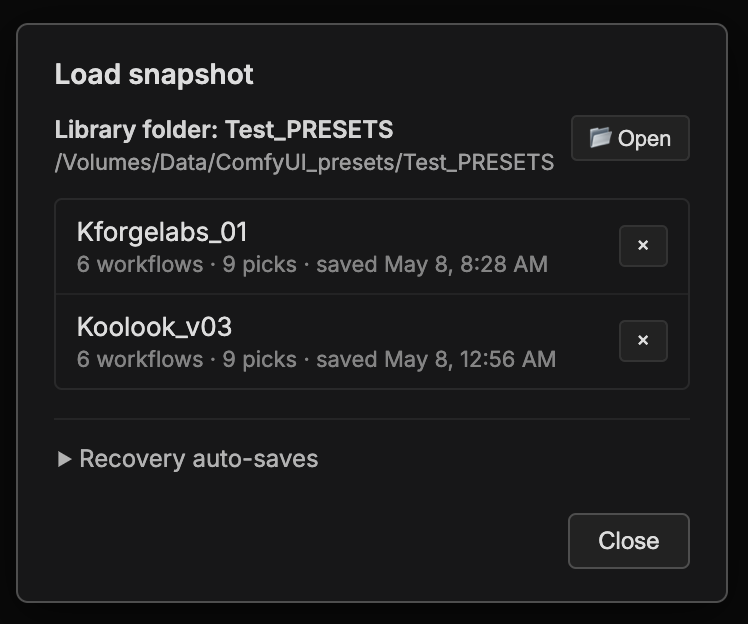
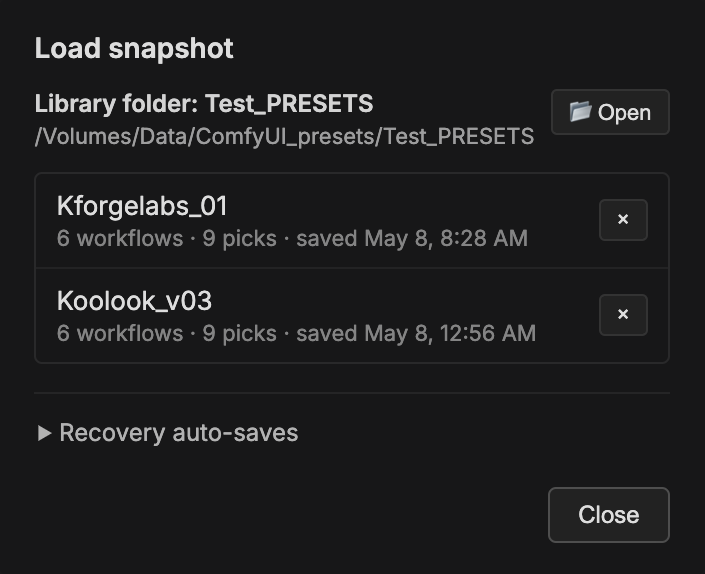
docs(guide): refine overview, mental-model diagram, cards, and recipes
- Sidebar overview: replace screenshot with post-#108 redesign, re-tune
  marker percentages and grid layout, bring markers flush to image edge,
  rewrite Nodes/Workflows action-bar callouts.
- Snapshot mental-model SVG: drop the U-shaped return arrow, restyle
  boxes with ForgeFlow accent strips, show actual on-disk file paths
  (Client_Shot010.json + Client_Shot010_autosave/periodic.json), rename
  Project library to Custom Folder, replace dramatic caption with a
  single-line equation-style summary of manual vs auto-save behaviour.
- Function cards: convert chip spans to bullet lists, replace "Safety /
  setup" with "Smart organization" (folders/drag-drop/move), tighten
  Search description, "Group" -> "Smart view" on Nodes chip.
- Recipes: hide focus-dot overlays, restore wrapper panel with darker
  #111111 fill, strip all styling from images, scale screenshots to 70%,
  right-align callouts to screenshot edge, split callout text into
  separate paragraphs, pin figcaption to bottom.
- Crop save-snapshot.png and load-snapshot.png to remove backdrop
  padding.

diff --git a/web/guide/guide.css b/web/guide/guide.css
@@ -133,8 +133,12 @@ figcaption {
 
 .overview-map {
   display: grid;
-  grid-template-columns: minmax(240px, 0.78fr) minmax(220px, 0.72fr);
-  gap: 48px;
+  /* Slightly wider screenshot column + tighter gap so the sidebar shot's
+     natural portrait height grows to roughly match the callouts column
+     height (image aspect 728:1206 → ~1.656x width). Markers scale with the
+     image since they use percentage positioning. */
+  grid-template-columns: minmax(240px, 0.84fr) minmax(220px, 0.66fr);
+  gap: 24px;
   align-items: center;
   padding: 22px 28px 22px 22px;
   border: 1px solid var(--line);
@@ -156,7 +160,7 @@ figcaption {
 
 .overview-box {
   position: absolute;
-  right: -18px;
+  right: -4px;
   width: 4px;
   border: 0;
   border-radius: 999px;
@@ -169,39 +173,44 @@ figcaption {
   content: none;
 }
 
+/* Marker percentages tuned to the redesigned 728×1206 sidebar-overview.png.
+   Section dividers measured at y = 78 / 154 / 264 / 344 / 420 / 1206
+   (= 6.47% / 12.77% / 21.89% / 28.52% / 34.83% / 100%). Each bar is inset
+   ~0.5% from its dividers so the marker sits cleanly inside the row band
+   instead of straddling the divider line. */
 .overview-snapshot {
-  top: 1.8%;
-  height: 6.8%;
+  top: 0.7%;
+  height: 5.4%;
   color: #4a8058;
 }
 
 .overview-tools {
-  top: 9.7%;
-  height: 6.4%;
+  top: 7.0%;
+  height: 5.4%;
   color: #4268ba;
 }
 
 .overview-search {
-  top: 17.8%;
-  height: 5.6%;
+  top: 13.4%;
+  height: 8.0%;
   color: #d59b3d;
 }
 
 .overview-nodes {
-  top: 26.2%;
-  height: 8.2%;
+  top: 22.4%;
+  height: 5.6%;
   color: #b64747;
 }
 
 .overview-workflows {
-  top: 34.9%;
-  height: 8%;
+  top: 29.1%;
+  height: 5.4%;
   color: #452e83;
 }
 
 .overview-saved {
-  top: 43.5%;
-  height: 51.8%;
+  top: 35.4%;
+  height: 63.6%;
   color: #4a8058;
 }
 
@@ -364,112 +373,108 @@ figcaption {
 }
 
 .function-list {
-  display: flex;
-  flex-wrap: wrap;
-  gap: 7px;
-  margin-top: 14px;
+  margin: 14px 0 0;
+  padding-left: 18px;
+  list-style: disc;
 }
 
-.function-list span {
-  display: inline-flex;
-  align-items: center;
-  min-height: 28px;
-  padding: 4px 8px;
-  border: 1px solid #3d3d3d;
-  border-radius: 4px;
-  background: #1a1a1f;
+.function-list li {
   color: var(--text);
   font-size: 12px;
   font-weight: 700;
-  line-height: 1.2;
+  line-height: 1.6;
 }
 
 .recipes {
   display: grid;
   grid-template-columns: repeat(2, minmax(0, 1fr));
-  gap: 18px;
+  gap: 40px 32px;
   padding: 34px 0 64px;
 }
 
+/* Each recipe is wrapped in its own panel so the row of recipes reads as a
+   set of self-contained "case studies" — same outer container shape, same
+   inner layout (screenshot above, callout below, caption at bottom).
+   Wrapper is a flex column so the figcaption uses `margin-top: auto` and
+   sits flush at the bottom of every panel, aligned across the row even when
+   the callouts above vary in height. Wrapper bg is intentionally darker
+   than --panel so the screenshots inside read as the lighter focal subject. */
 .recipe-real {
-  padding: 14px;
+  display: flex;
+  flex-direction: column;
+  padding: 22px 22px 22px;
   border: 1px solid var(--line);
   border-radius: 8px;
-  background: var(--panel);
+  /* Darker than the screenshot's own edge color (#171718) so the screenshot
+     reads as the lighter focal subject inside a darker frame. */
+  background: #111111;
 }
 
-.recipe-real img {
-  border-color: #454545;
-  background: #101010;
+.recipe-real figcaption {
+  margin-top: auto;
+  padding-top: 22px;
+  text-align: center;
 }
 
 .recipe-shot {
   position: relative;
+  max-width: 70%;
+  margin: 0 auto;
 }
 
+.recipes .recipe-shot img {
+  display: block;
+  width: 100%;
+  height: auto;
+  border: 0;
+  border-radius: 0;
+  background: transparent;
+  box-shadow: none;
+  outline: none;
+}
+
+/* Focus-dot overlays were visually noisy and frequently misaligned over the
+   underlying screenshots; hidden until they can be redrawn against the new
+   sidebar imagery. Aria-hidden already, so nothing changes for AT users. */
 .focus-dot {
-  position: absolute;
-  width: 72px;
-  height: 72px;
-  border-radius: 999px;
-  background: rgb(66 104 186 / 30%);
-  box-shadow: 0 0 0 2px rgb(66 104 186 / 88%);
-  pointer-events: none;
-}
-
-.focus-save {
-  right: 3%;
-  bottom: 7%;
-}
-
-.focus-load {
-  left: 7%;
-  top: 39%;
-}
-
-.focus-module {
-  right: 0.5%;
-  bottom: 0.5%;
-  background: rgb(201 148 75 / 30%);
-  box-shadow: 0 0 0 2px rgb(201 148 75 / 88%);
-}
-
-.focus-node-search {
-  left: 12%;
-  top: 19%;
-  background: rgb(74 128 88 / 30%);
-  box-shadow: 0 0 0 2px rgb(74 128 88 / 88%);
-}
-
-.focus-workflow-search {
-  left: 10%;
-  top: 16%;
-  background: rgb(69 46 131 / 30%);
-  box-shadow: 0 0 0 2px rgb(69 46 131 / 88%);
+  display: none;
 }
 
 .recipe-callout {
   width: fit-content;
-  max-width: min(520px, calc(100% - 44px));
-  margin: 18px auto 0;
-  padding: 14px 18px 14px 22px;
-  border-left: 5px solid var(--blue);
-  border-radius: 8px;
+  /* About two-thirds the width of the recipe screenshot, so the callout
+     reads as a sub-element rather than a full-width banner. Right-aligned
+     to the SCREENSHOT'S right edge: the screenshot is `max-width: 70%`
+     centered, so its right edge sits at the 85% mark of the wrapper, which
+     is 15% from the wrapper's right side. `margin-right: 15%` reproduces
+     that offset, `margin-left: auto` pushes the callout right against it. */
+  max-width: min(240px, calc(100% - 24px));
+  margin: 22px 15% 0 auto;
+  padding: 14px 18px 14px 20px;
+  border-left: 4px solid var(--blue);
+  border-radius: 6px;
   background: #111111;
-  box-shadow: 0 14px 30px rgb(0 0 0 / 26%);
+  box-shadow: 0 10px 22px rgb(0 0 0 / 22%);
 }
 
 .recipe-callout p {
   margin: 0;
   color: var(--muted);
-  font-size: 17px;
+  font-size: 14px;
   line-height: 1.55;
+}
+
+/* Paragraph chapters inside a callout — when a recipe explains two distinct
+   actions (e.g. Save vs. Save as new), each gets its own paragraph and they
+   are separated by a small gap so they read as visually distinct topics. */
+.recipe-callout p + p {
+  margin-top: 8px;
 }
 
 .recipe-callout strong {
   color: var(--text);
-  font-size: 18px;
-  font-weight: 800;
+  font-size: 14px;
+  font-weight: 700;
 }
 
 .recipe-callout.amber {

diff --git a/web/guide/index.html b/web/guide/index.html
@@ -50,11 +50,11 @@ SPDX-License-Identifier: GPL-3.0-only
             </article>
             <article class="overview-callout nodes">
               <h3>Nodes action bar</h3>
-              <p>Switch tree or list view, then add a favorite node.</p>
+              <p>Arrange nodes by Git repo name or theme, and add favorite nodes to the side panel.</p>
             </article>
             <article class="overview-callout workflows">
               <h3>Workflows action bar</h3>
-              <p>Save the canvas or selected nodes, then browse saved workflows.</p>
+              <p>Save the entire canvas or selected nodes.</p>
             </article>
             <article class="overview-callout saved">
               <h3>Saved lists</h3>
@@ -71,7 +71,7 @@ SPDX-License-Identifier: GPL-3.0-only
         <p class="eyebrow">Most important idea</p>
         <h2>Snapshot = your project kit</h2>
       </div>
-      <p>A Snapshot saves Kforge Labs state: favorite nodes, saved workflows, modules, tags, archive, and the current sidebar organization. Use one named snapshot per project, shot, client, or experiment.</p>
+      <p>A snapshot saves your favorite nodes, workflows, modules, tags, and the current sidebar organization. Use one named snapshot per project, shot, client, or experiment.</p>
       <figure class="visual full">
         <img src="./img/snapshot-flow.svg" alt="Snapshot flow from sidebar state to saved file to project library and later reload">
       </figure>
@@ -100,52 +100,52 @@ SPDX-License-Identifier: GPL-3.0-only
       <article>
         <h3>Snapshots</h3>
         <p>Save and reload the whole project kit.</p>
-        <div class="function-list" aria-label="Snapshot functions">
-          <span>Load</span>
-          <span>Quick Save</span>
-          <span>Save</span>
-          <span>Settings</span>
-        </div>
+        <ul class="function-list" aria-label="Snapshot functions">
+          <li>Load</li>
+          <li>Quick Save</li>
+          <li>Save</li>
+          <li>Settings</li>
+        </ul>
       </article>
       <article>
         <h3>Nodes</h3>
         <p>Keep favorite nodes organized and easy to update.</p>
-        <div class="function-list" aria-label="Node functions">
-          <span>Search</span>
-          <span>Add</span>
-          <span>Remove</span>
-          <span>Group</span>
-        </div>
+        <ul class="function-list" aria-label="Node functions">
+          <li>Search</li>
+          <li>Add</li>
+          <li>Remove</li>
+          <li>Smart view</li>
+        </ul>
       </article>
       <article>
         <h3>Search</h3>
-        <p>Find saved work from one field. Tags keep exact capitalization.</p>
-        <div class="function-list" aria-label="Search functions">
-          <span>Nodes</span>
-          <span>Workflows</span>
-          <span>Folders</span>
-          <span>Tags</span>
-        </div>
+        <p>Find by name, repo, or tag — partial matches OK.</p>
+        <ul class="function-list" aria-label="Search functions">
+          <li>Nodes</li>
+          <li>Workflows</li>
+          <li>Folders</li>
+          <li>Tags</li>
+        </ul>
       </article>
       <article>
         <h3>Workflows</h3>
         <p>Save full scripts or reusable node selections.</p>
-        <div class="function-list" aria-label="Workflow functions">
-          <span>Save script</span>
-          <span>Save selection</span>
-          <span>Load</span>
-          <span>Insert module</span>
-        </div>
+        <ul class="function-list" aria-label="Workflow functions">
+          <li>Save script</li>
+          <li>Save selection</li>
+          <li>Load</li>
+          <li>Insert module</li>
+        </ul>
       </article>
       <article>
-        <h3>Safety / setup</h3>
-        <p>Quiet helpers protect projects and make saved kits portable.</p>
-        <div class="function-list" aria-label="Safety and setup functions">
-          <span>Autosaves</span>
-          <span>Missing packs</span>
-          <span>Starter preset</span>
-          <span>Library folder</span>
-        </div>
+        <h3>Smart organization</h3>
+        <p>Reshape your saved work folders, drag-drop, and move.</p>
+        <ul class="function-list" aria-label="Organization functions">
+          <li>Create folders</li>
+          <li>Drag and drop</li>
+          <li>Move setups</li>
+          <li>Rename or archive</li>
+        </ul>
       </article>
     </section>
 
@@ -160,7 +160,8 @@ SPDX-License-Identifier: GPL-3.0-only
           <span class="focus-dot focus-save" aria-hidden="true"></span>
         </div>
         <div class="recipe-callout blue" aria-label="Save snapshot notes">
-          <p><strong>Save</strong> updates the current project kit. <strong>Save as new</strong> creates another named snapshot.</p>
+          <p><strong>Save</strong> updates the current project kit.</p>
+          <p><strong>Save as new</strong> creates another named snapshot.</p>
         </div>
         <figcaption>Save the current sidebar state as a named project snapshot.</figcaption>
       </figure>